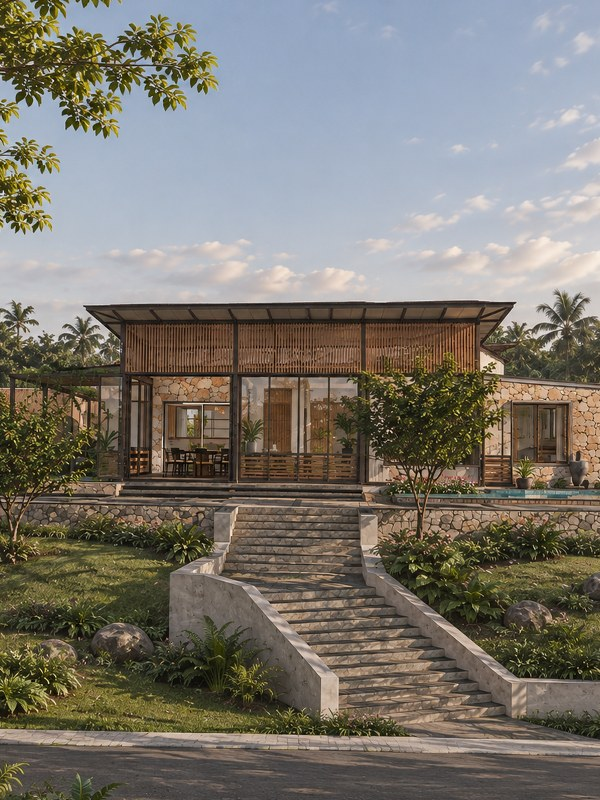
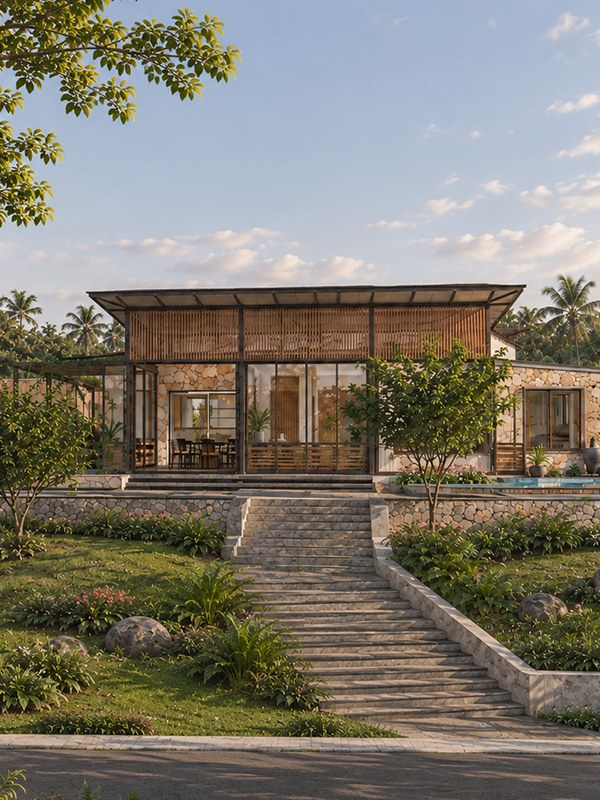
Update the Jewel One, Perched and Idukki Blonde thumbnails

diff --git a/index.html b/index.html
@@ -495,14 +495,14 @@
     <ul class="pj-grid">
       <li style="--i:0"><a class="tile t-res" href="#gardens-in-the-sky"><span class="ph"><img src="media/projects/01-gardens-in-the-sky.jpg" alt="" loading="lazy" decoding="async"></span><span class="cap"><i>+</i>Gardens in the Sky</span></a></li>
       <li style="--i:1"><a class="tile t-res" href="#house-by-the-stream"><span class="ph"><img src="media/projects/02-house-by-the-stream.jpg" alt="" style="object-position:50% 40%" loading="lazy" decoding="async"></span><span class="cap"><i>+</i>House by the Stream</span></a></li>
-      <li style="--i:2"><a class="tile t-com" href="#jewel-one"><span class="ph"><img src="media/projects/03-jewel-one.jpg" alt="" style="object-position:50% 15%" loading="lazy" decoding="async"></span><span class="cap"><i>+</i>Jewel One</span></a></li>
+      <li style="--i:2"><a class="tile t-com" href="#jewel-one"><span class="ph"><img src="media/projects/03-jewel-one.jpg" alt="" style="object-position:50% 62%" loading="lazy" decoding="async"></span><span class="cap"><i>+</i>Jewel One</span></a></li>
       <li style="--i:3"><a class="tile t-res" href="#perched"><span class="ph"><img src="media/projects/04-perched.jpg" alt="" style="object-position:50% 30%" loading="lazy" decoding="async"></span><span class="cap"><i>+</i>Perched</span></a></li>
       <li style="--i:4"><a class="tile t-res" href="#ammaveedu"><span class="ph"><img src="media/projects/05-ammaveedu.jpg" alt="" loading="lazy" decoding="async"></span><span class="cap"><i>+</i>Ammaveedu</span></a></li>
       <li style="--i:5"><a class="tile t-com" href="#58-willingdon"><span class="ph"><img src="media/projects/06-58-willingdon.jpg" alt="" style="object-position:50% 72%" loading="lazy" decoding="async"></span><span class="cap"><i>+</i>58 Willingdon</span></a></li>
       <li style="--i:6"><a class="tile t-com" href="#ribbon"><span class="ph"><img src="media/projects/07-ribbon.jpg" alt="" loading="lazy" decoding="async"></span><span class="cap"><i>+</i>Ribbon</span></a></li>
       <li style="--i:7"><a class="tile t-oth" href="#booyah"><span class="ph"><img src="media/projects/08-booyah.jpg" alt="" style="object-position:50% 60%" loading="lazy" decoding="async"></span><span class="cap"><i>+</i>Booyah</span></a></li>
       <li style="--i:8"><a class="tile t-prod" href="#house-of-recollections"><span class="ph"><img src="media/projects/09-house-of-recollections.jpg" alt="" loading="lazy" decoding="async"></span><span class="cap"><i>+</i>Recollections</span></a></li>
-      <li style="--i:9"><a class="tile t-oth" href="#idukki-blonde"><span class="ph"><img src="media/projects/10-idukki-blonde.jpg" alt="" style="object-position:50% 55%" loading="lazy" decoding="async"></span><span class="cap"><i>+</i>Idukki Blonde</span></a></li>
+      <li style="--i:9"><a class="tile t-oth" href="#idukki-blonde"><span class="ph"><img src="media/projects/10-idukki-blonde.jpg" alt="" style="object-position:50% 80%" loading="lazy" decoding="async"></span><span class="cap"><i>+</i>Idukki Blonde</span></a></li>
       <li style="--i:10"><a class="tile t-res" href="#a-quiet-invitation"><span class="ph"><img src="media/projects/11-a-quiet-invitation.jpg" alt="" style="object-position:50% 65%" loading="lazy" decoding="async"></span><span class="cap"><i>+</i>A Quiet Invitation</span></a></li>
       <li style="--i:11"><a class="tile t-oth" href="#lime-and-steel"><span class="ph"><img src="media/projects/12-lime-and-steel.jpg" alt="" loading="lazy" decoding="async"></span><span class="cap"><i>+</i>Lime &amp; Steel</span></a></li>
       <li style="--i:12"><a class="tile t-res" href="#toasted"><span class="ph"><img src="media/projects/13-toasted.jpg" alt="" loading="lazy" decoding="async"></span><span class="cap"><i>+</i>Toasted</span></a></li>
